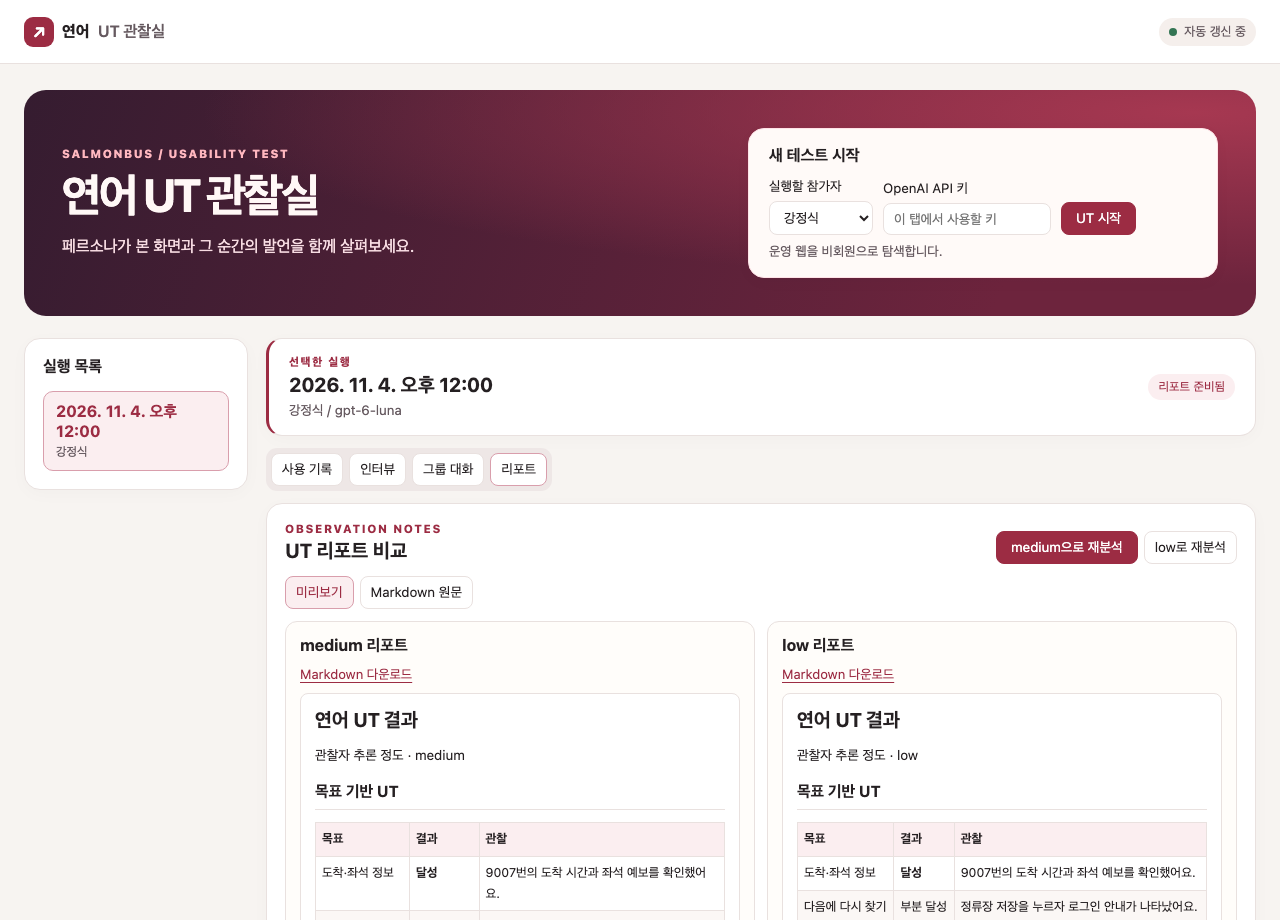
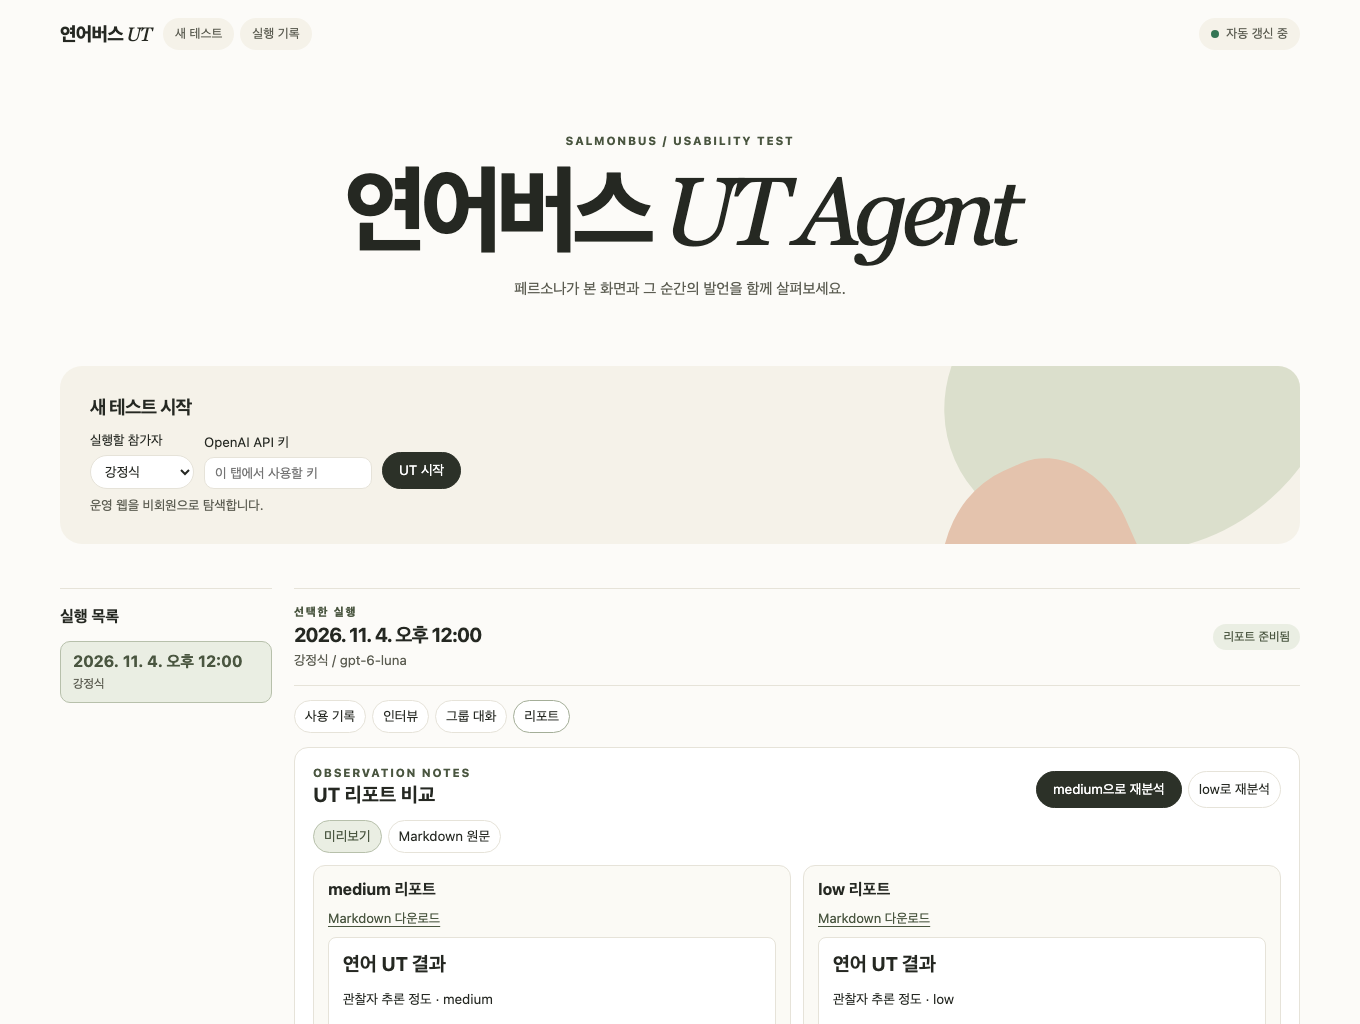
feat: refresh Salmonbus UT Agent branding

diff --git a/web/styles.css b/web/styles.css
@@ -1,13 +1,14 @@
 :root {
   color-scheme: light;
   font-family: -apple-system, BlinkMacSystemFont, "Malgun Gothic", system-ui, sans-serif;
-  color: #252022;
-  background: #f7f4f1;
+  color: #252822;
+  background: #fcfbf8;
   --surface: #fff;
-  --muted: #665a60;
-  --line: #e9e1df;
-  --accent: #9c2c43;
-  --tint: #fbeef0;
+  --muted: #5c5d52;
+  --line: #e6e3d9;
+  --accent: #4a5640;
+  --tint: #eaeee3;
+  --paper: #f5f2e9;
 }
 
 * { box-sizing: border-box; }
@@ -21,27 +22,26 @@ h1, h2, h3, h4, p { margin: 0; }
 a { color: var(--accent); }
 
 .top {
-  min-height: 64px;
-  padding: 12px max(24px, calc((100% - 1280px) / 2));
-  border-bottom: 1px solid var(--line);
-  background: var(--surface);
+  min-height: 68px;
+  padding: 12px max(24px, calc((100% - 1240px) / 2));
   display: flex;
   align-items: center;
   justify-content: space-between;
   gap: 12px;
 }
-.brand { display: flex; align-items: center; gap: 8px; font-weight: 800; }
-.brand > span:last-child { font-weight: 600; color: var(--muted); }
-.mark {
-  display: grid;
-  place-items: center;
-  width: 30px;
-  height: 30px;
-  border-radius: 9px;
-  color: white;
-  background: var(--accent);
+.brand { color: inherit; font-size: 1.2rem; font-weight: 750; letter-spacing: -.045em; text-decoration: none; white-space: nowrap; }
+.brand em, .intro h1 em { font-family: Georgia, "Times New Roman", serif; font-weight: 400; }
+.top-nav { display: flex; gap: 6px; margin-right: auto; }
+.top-nav a, .sync {
+  padding: 8px 12px;
+  border-radius: 999px;
+  background: var(--paper);
+  font-size: .79rem;
+  color: var(--muted);
+  text-decoration: none;
+  white-space: nowrap;
 }
-.sync { padding: 6px 10px; border-radius: 999px; background: #f5efec; font-size: .79rem; color: var(--muted); white-space: nowrap; }
+.top-nav a:hover { background: var(--tint); color: var(--accent); }
 .sync::before {
   content: "";
   display: inline-block;
@@ -53,45 +53,67 @@ a { color: var(--accent); }
 }
 .sync.online::before { background: #347554; }
 
-main { width: min(1280px, calc(100% - 48px)); margin: 0 auto; padding: 26px 0 48px; }
-.overview {
-  display: grid;
-  grid-template-columns: minmax(0, 1fr) minmax(300px, 470px);
-  gap: 24px;
-  align-items: center;
-  margin-bottom: 22px;
-  padding: clamp(20px, 4vw, 38px);
-  border-radius: 22px;
-  color: #fff8f6;
-  background:
-    radial-gradient(ellipse at 95% 10%, #a63851 0, transparent 60%),
-    linear-gradient(110deg, #351c30, #6d243d 80%);
-}
-.eyebrow { color: var(--accent); font-size: .72rem; font-weight: 800; letter-spacing: .14em; }
-.intro .eyebrow { color: #ffb7bf; }
-.intro h1 { font-size: clamp(1.85rem, 4vw, 2.85rem); margin: 8px 0; letter-spacing: -.05em; }
-.intro > p:last-child { color: #f8dde3; line-height: 1.6; }
+main { width: min(1240px, calc(100% - 48px)); margin: 0 auto; padding-bottom: 56px; }
+.overview { margin-bottom: clamp(24px, 4vw, 44px); }
+.intro { padding: clamp(34px, 5vw, 66px) 0; text-align: center; }
+.eyebrow { color: var(--accent); font-size: .72rem; font-weight: 750; letter-spacing: .15em; }
+.intro h1 { margin: 10px 0 12px; font-size: clamp(2.1rem, 7.4vw, 6rem); font-weight: 720; line-height: 1.08; letter-spacing: -.075em; }
+.intro h1 em { letter-spacing: -.075em; margin-left: .035em; white-space: nowrap; }
+.intro > p:last-child { color: var(--muted); font-size: .94rem; line-height: 1.6; }
 .muted, #frame-info, #run-info, .empty p { color: var(--muted); }
-.workspace { display: grid; grid-template-columns: 224px minmax(0, 1fr); gap: 18px; align-items: start; }
-.surface { background: var(--surface); border: 1px solid var(--line); border-radius: 16px; box-shadow: 0 4px 18px #3c203006; }
-.launch { padding: 17px 20px; color: #252022; background: #fffaf8; border-color: #ffe3e7; }
-.launch h2 { font-size: 1rem; margin-bottom: 12px; }
+.workspace { display: grid; grid-template-columns: 212px minmax(0, 1fr); gap: 22px; align-items: start; }
+.surface { background: var(--surface); border: 1px solid var(--line); border-radius: 14px; }
+.launch {
+  position: relative;
+  isolation: isolate;
+  overflow: hidden;
+  padding: clamp(18px, 3vw, 30px);
+  background: var(--paper);
+  border: 0;
+  border-radius: 22px;
+}
+.launch::before, .launch::after {
+  content: "";
+  position: absolute;
+  z-index: -1;
+  pointer-events: none;
+}
+.launch::before {
+  width: 30%;
+  height: 220%;
+  right: -3%;
+  top: -112%;
+  transform: rotate(20deg);
+  background: #dbdfcc;
+  border-radius: 48% 52% 63% 37%;
+}
+.launch::after {
+  width: 17%;
+  height: 150%;
+  right: 12%;
+  bottom: -106%;
+  transform: rotate(-24deg);
+  background: #e4c3ad;
+  border-radius: 62% 38% 52% 48%;
+}
+.launch h2 { font-size: 1.18rem; margin-bottom: 12px; letter-spacing: -.035em; }
 .launch-fields { display: flex; flex-wrap: wrap; align-items: end; gap: 10px; }
 .launch-fields label, .interview-form label { display: grid; gap: 6px; font-size: .83rem; }
 .launch-fields input, .interview-form textarea {
   border: 1px solid var(--line);
-  border-radius: 8px;
+  border-radius: 10px;
   background: var(--surface);
   color: inherit;
   padding: 7px 10px;
   min-width: 0;
 }
-button.primary { background: var(--accent); color: white; border: 1px solid var(--accent); border-radius: 8px; padding: 7px 14px; font-size: .84rem; }
+button.primary { background: #2c3128; color: white; border: 1px solid #2c3128; border-radius: 999px; padding: 9px 16px; font-size: .84rem; }
 .feedback { margin-top: 8px; font-size: .82rem; }
 .interview-form { display: grid; gap: 10px; justify-items: start; margin-top: 14px; }
 .interview-form label:nth-child(2), .interview-form textarea { width: 100%; }
 .interview-form .feedback { margin: 0; }
 .runs, .preview, .timeline, .records { padding: 18px; }
+.runs { background: transparent; padding-inline: 0; border: 0; border-top: 1px solid var(--line); border-radius: 0; }
 .runs h2, .section-head h3, .records h3 { font-size: 1rem; }
 #runs { display: grid; gap: 8px; margin-top: 14px; }
 .run-link, .event {
@@ -105,18 +127,18 @@ button.primary { background: var(--accent); color: white; border: 1px solid var(
 }
 .run-link small, .event small { display: block; color: var(--muted); font-size: .76rem; }
 .run-link small, .event strong { margin-top: 4px; }
-button[aria-pressed="true"] { background: var(--tint); border-color: #d99eac; color: var(--accent); }
-button:not(:disabled):hover { border-color: #d99eac; }
+button[aria-pressed="true"] { background: var(--tint); border-color: #b7c0ab; color: var(--accent); }
+button:not(:disabled):hover { border-color: #a4ae98; }
 .empty { min-height: 260px; padding: 40px 24px; display: grid; place-content: center; gap: 12px; text-align: center; }
-.run-header { padding: 16px 20px; display: flex; align-items: center; justify-content: space-between; gap: 12px; border-left: 3px solid var(--accent); }
-.run-header h2 { font-size: 1.24rem; margin: 4px 0; }
+.run-header { padding: 16px 0; display: flex; align-items: center; justify-content: space-between; gap: 12px; border: 0; border-block: 1px solid var(--line); border-radius: 0; background: transparent; }
+.run-header h2 { font-size: 1.24rem; margin: 4px 0; letter-spacing: -.04em; }
 #run-info { font-size: .83rem; }
 .badge { background: var(--tint); color: var(--accent); border-radius: 999px; padding: 5px 10px; font-size: .76rem; white-space: nowrap; }
-.tabs { display: flex; flex-wrap: wrap; gap: 6px; margin: 12px 0; padding: 5px; background: #eee7e6; border-radius: 11px; width: fit-content; max-width: 100%; }
+.tabs { display: flex; flex-wrap: wrap; gap: 6px; margin: 14px 0; }
 .tabs button, #follow, select {
   color: inherit;
   border: 1px solid var(--line);
-  border-radius: 8px;
+  border-radius: 999px;
   background: var(--surface);
   padding: 7px 10px;
   font-size: .84rem;
@@ -125,7 +147,7 @@ button:not(:disabled):hover { border-color: #d99eac; }
 .section-head { display: flex; align-items: center; justify-content: space-between; gap: 8px; margin-bottom: 12px; }
 .section-head label, #frame-info { font-size: .82rem; }
 #frame-info { margin-bottom: 12px; overflow-wrap: anywhere; }
-.screen { min-height: 150px; border: 1px dashed var(--line); border-radius: 14px; background: #f7f1ed; }
+.screen { min-height: 150px; border: 1px dashed var(--line); border-radius: 14px; background: var(--paper); }
 .screen.has-image { width: fit-content; max-width: 100%; margin: auto; border: 0; background: transparent; }
 .screen img { display: block; width: auto; max-width: 100%; max-height: 610px; border-radius: 12px; border: 1px solid var(--line); }
 #events { display: grid; gap: 8px; list-style: none; padding: 3px; margin: -3px; max-height: 660px; overflow: auto; }
@@ -141,8 +163,8 @@ button:not(:disabled):hover { border-color: #d99eac; }
   max-height: 65vh;
   overflow: auto;
   list-style: none;
-  background: #dce9f1;
-  border: 1px solid #c9dbe5;
+  background: #e9eee9;
+  border: 1px solid #dbe3d9;
   border-radius: 12px;
 }
 .chat-message { display: flex; align-items: flex-start; gap: 10px; min-width: 0; }
@@ -186,20 +208,20 @@ button:not(:disabled):hover { border-color: #d99eac; }
   border-top: 6px solid #fff;
   border-left: 6px solid transparent;
 }
-.outgoing .chat-bubble { background: #ffe765; border-radius: 12px 2px 12px 12px; }
-.outgoing .chat-bubble::before { right: auto; left: 100%; border-left: 0; border-top-color: #ffe765; border-right: 6px solid transparent; }
+.outgoing .chat-bubble { background: #f5e8ab; border-radius: 12px 2px 12px 12px; }
+.outgoing .chat-bubble::before { right: auto; left: 100%; border-left: 0; border-top-color: #f5e8ab; border-right: 6px solid transparent; }
 .chat-divider, .chat-empty { text-align: center; color: #405561; font-size: .8rem; }
-.chat-divider span { display: inline-block; background: #cbdde8; border-radius: 999px; padding: 5px 12px; }
+.chat-divider span { display: inline-block; background: #dbe3d9; border-radius: 999px; padding: 5px 12px; }
 .chat-empty { padding: 20px 0; }
 .report-heading { align-items: flex-end; flex-wrap: wrap; }
 .report-heading .eyebrow { margin-bottom: 4px; }
 .report-heading h3 { font-size: 1.25rem; }
 .review-controls, .report-modes { display: flex; flex-wrap: wrap; gap: 6px; }
-.review-controls button:not(.primary), .report-modes button { color: inherit; border: 1px solid var(--line); border-radius: 8px; background: var(--surface); padding: 7px 10px; font-size: .84rem; }
-.report-modes button[aria-pressed="true"] { color: var(--accent); border-color: #d99eac; background: var(--tint); }
+.review-controls button:not(.primary), .report-modes button { color: inherit; border: 1px solid var(--line); border-radius: 999px; background: var(--surface); padding: 7px 10px; font-size: .84rem; }
+.report-modes button[aria-pressed="true"] { color: var(--accent); border-color: #b7c0ab; background: var(--tint); }
 #review-feedback:empty { display: none; }
 .report-comparison { display: grid; grid-template-columns: repeat(2, minmax(0, 1fr)); gap: 12px; margin: 12px 0; }
-.report-panel { min-width: 0; border: 1px solid var(--line); border-radius: 12px; padding: 14px; background: #fffdfa; }
+.report-panel { min-width: 0; border: 1px solid var(--line); border-radius: 12px; padding: 14px; background: #fbfaf5; }
 .report-panel h4 { margin-bottom: 8px; }
 #report-records a { font-size: .82rem; text-underline-offset: 3px; }
 #report-records summary { cursor: pointer; margin-bottom: 8px; color: var(--muted); }
@@ -221,30 +243,33 @@ button:not(:disabled):hover { border-color: #d99eac; }
 .report-preview table { width: 100%; border-collapse: collapse; font-size: .78rem; text-align: left; }
 .report-preview th, .report-preview td { border: 1px solid var(--line); padding: 6px; vertical-align: top; }
 .report-preview th { background: var(--tint); }
-.report-preview tbody tr:nth-child(even) { background: #fbf7f5; }
+.report-preview tbody tr:nth-child(even) { background: #f7f6ef; }
 .report-preview img { max-width: 100%; height: auto; }
-.report-preview code { background: #f5eeec; border-radius: 4px; padding: 1px 3px; }
+.report-preview code { background: var(--paper); border-radius: 4px; padding: 1px 3px; }
 .report-preview pre { white-space: pre-wrap; }
-.report-source { background: #f6efed; font-size: .8rem; white-space: pre-wrap; }
+.report-source { background: var(--paper); font-size: .8rem; white-space: pre-wrap; }
 #report[data-report-mode="preview"] .report-source, #report[data-report-mode="source"] .report-preview { display: none; }
 
 @media (max-width: 860px) {
   .workspace { grid-template-columns: 170px minmax(0, 1fr); }
   .activity { grid-template-columns: minmax(0, 1fr); }
-  .overview { grid-template-columns: minmax(0, 1fr); }
   .report-comparison { grid-template-columns: 1fr; }
   .report-preview, .report-source { max-height: none; }
 }
 @media (max-width: 580px) {
   .top { padding-inline: 16px; }
-  main { width: calc(100% - 28px); padding-top: 24px; }
+  .top-nav a { padding-inline: 8px; }
+  main { width: calc(100% - 28px); }
   .workspace { grid-template-columns: minmax(0, 1fr); }
-  #runs { grid-template-columns: repeat(auto-fit, minmax(132px, 1fr)); }
-  .preview, .timeline, .records, .runs { padding: 14px; }
-  .overview { gap: 16px; }
-  .launch { padding: 14px; }
+  #runs { grid-template-columns: repeat(auto-fit, minmax(132px, 1fr)); max-height: 190px; overflow: auto; padding: 3px; margin: 11px -3px 0; }
+  .preview, .timeline, .records { padding: 14px; }
+  .launch::before { width: 42%; right: -16%; opacity: .65; }
+  .launch::after { right: 3%; opacity: .65; }
   .chat { padding: 12px; }
   .chat-message { gap: 8px; }
   .chat-avatar { flex-basis: 30px; height: 30px; border-radius: 10px; }
   .chat-body { max-width: 86%; }
+}
+@media (max-width: 360px) {
+  .top { flex-wrap: wrap; gap: 6px; }
 }

diff --git a/web/index.html b/web/index.html
@@ -3,20 +3,24 @@
 <head>
   <meta charset="utf-8">
   <meta name="viewport" content="width=device-width, initial-scale=1">
-  <title>연어 UT 관찰실</title>
+  <title>연어버스 UT Agent</title>
   <link rel="stylesheet" href="/styles.css">
   <script type="module" src="/app.js"></script>
 </head>
 <body>
   <header class="top">
-    <div class="brand"><span class="mark" aria-hidden="true">↗</span> 연어 <span>UT 관찰실</span></div>
+    <a class="brand" href="#title">연어버스 <em>UT</em></a>
+    <nav class="top-nav" aria-label="관찰실 바로가기">
+      <a href="#launch-form">새 테스트</a>
+      <a href="#runs-heading">실행 기록</a>
+    </nav>
     <span class="sync" id="sync" role="status">기록 확인 중</span>
   </header>
   <main>
     <section class="overview" aria-labelledby="title">
       <div class="intro">
         <p class="eyebrow">SALMONBUS / USABILITY TEST</p>
-        <h1 id="title">연어 UT 관찰실</h1>
+        <h1 id="title">연어버스 <em>UT Agent</em></h1>
         <p>페르소나가 본 화면과 그 순간의 발언을 함께 살펴보세요.</p>
       </div>
       <form class="surface launch" id="launch-form" aria-labelledby="launch-title">
@@ -41,7 +45,7 @@
     </section>
     <div class="workspace">
       <aside class="surface runs">
-        <h2>실행 목록</h2>
+        <h2 id="runs-heading">실행 목록</h2>
         <div id="runs"></div>
       </aside>
       <section class="surface empty" id="empty">

diff --git a/README.md b/README.md
@@ -1,5 +1,5 @@
 <div align="center">
-  <h1>연어 UT 에이전트</h1>
+  <h1>연어버스 UT Agent</h1>
   <p>네 명의 AI 페르소나가 연어를 사용하고, 웹 관찰실에서 화면과 행동을 기록합니다.</p>
   <p>
     <a href="https://salmonbus-ut-agents.vercel.app/"><strong>웹 관찰실 열기</strong></a>
@@ -10,7 +10,7 @@
   </p>
 </div>
 
-![연어 UT 관찰실의 medium과 low 리포트 비교 화면](docs/ut-viewer.png)
+![연어버스 UT Agent의 medium과 low 리포트 비교 화면](docs/ut-viewer.png)
 
 ## 웹에서 사용하기
 
